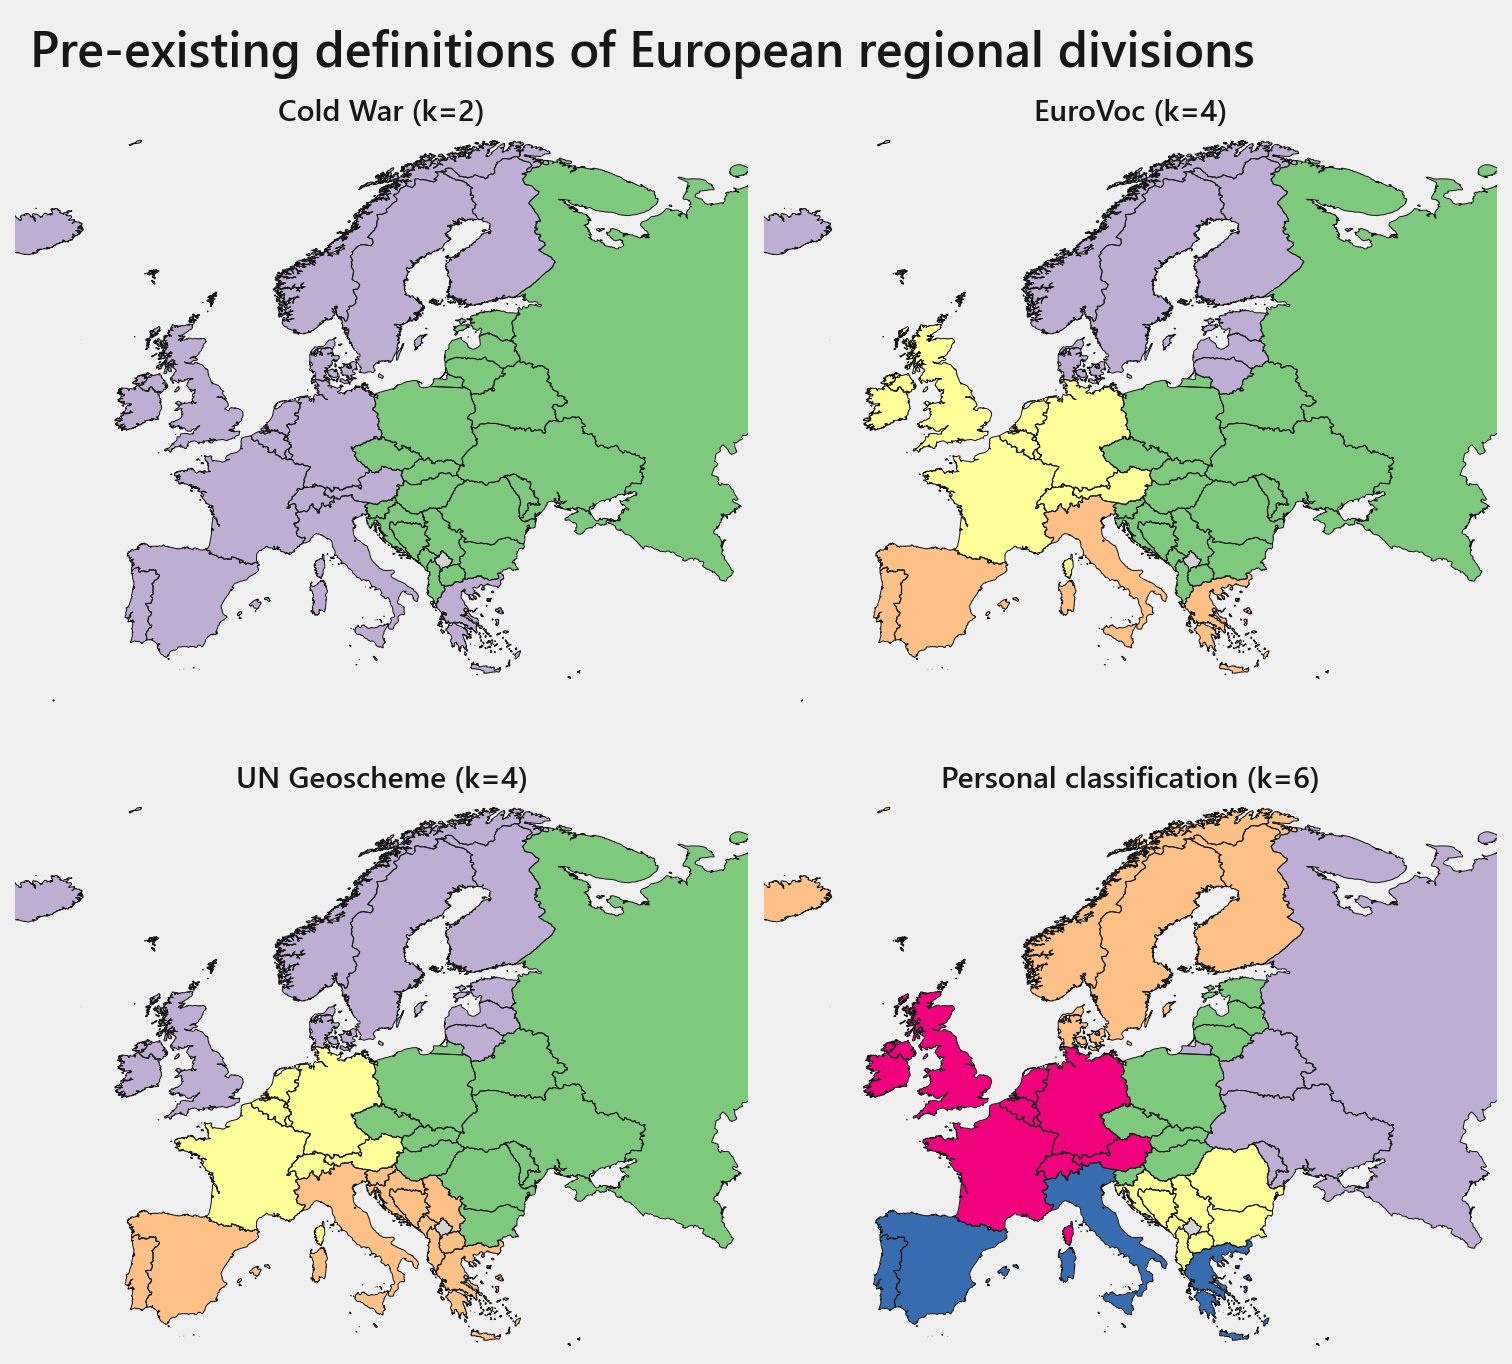
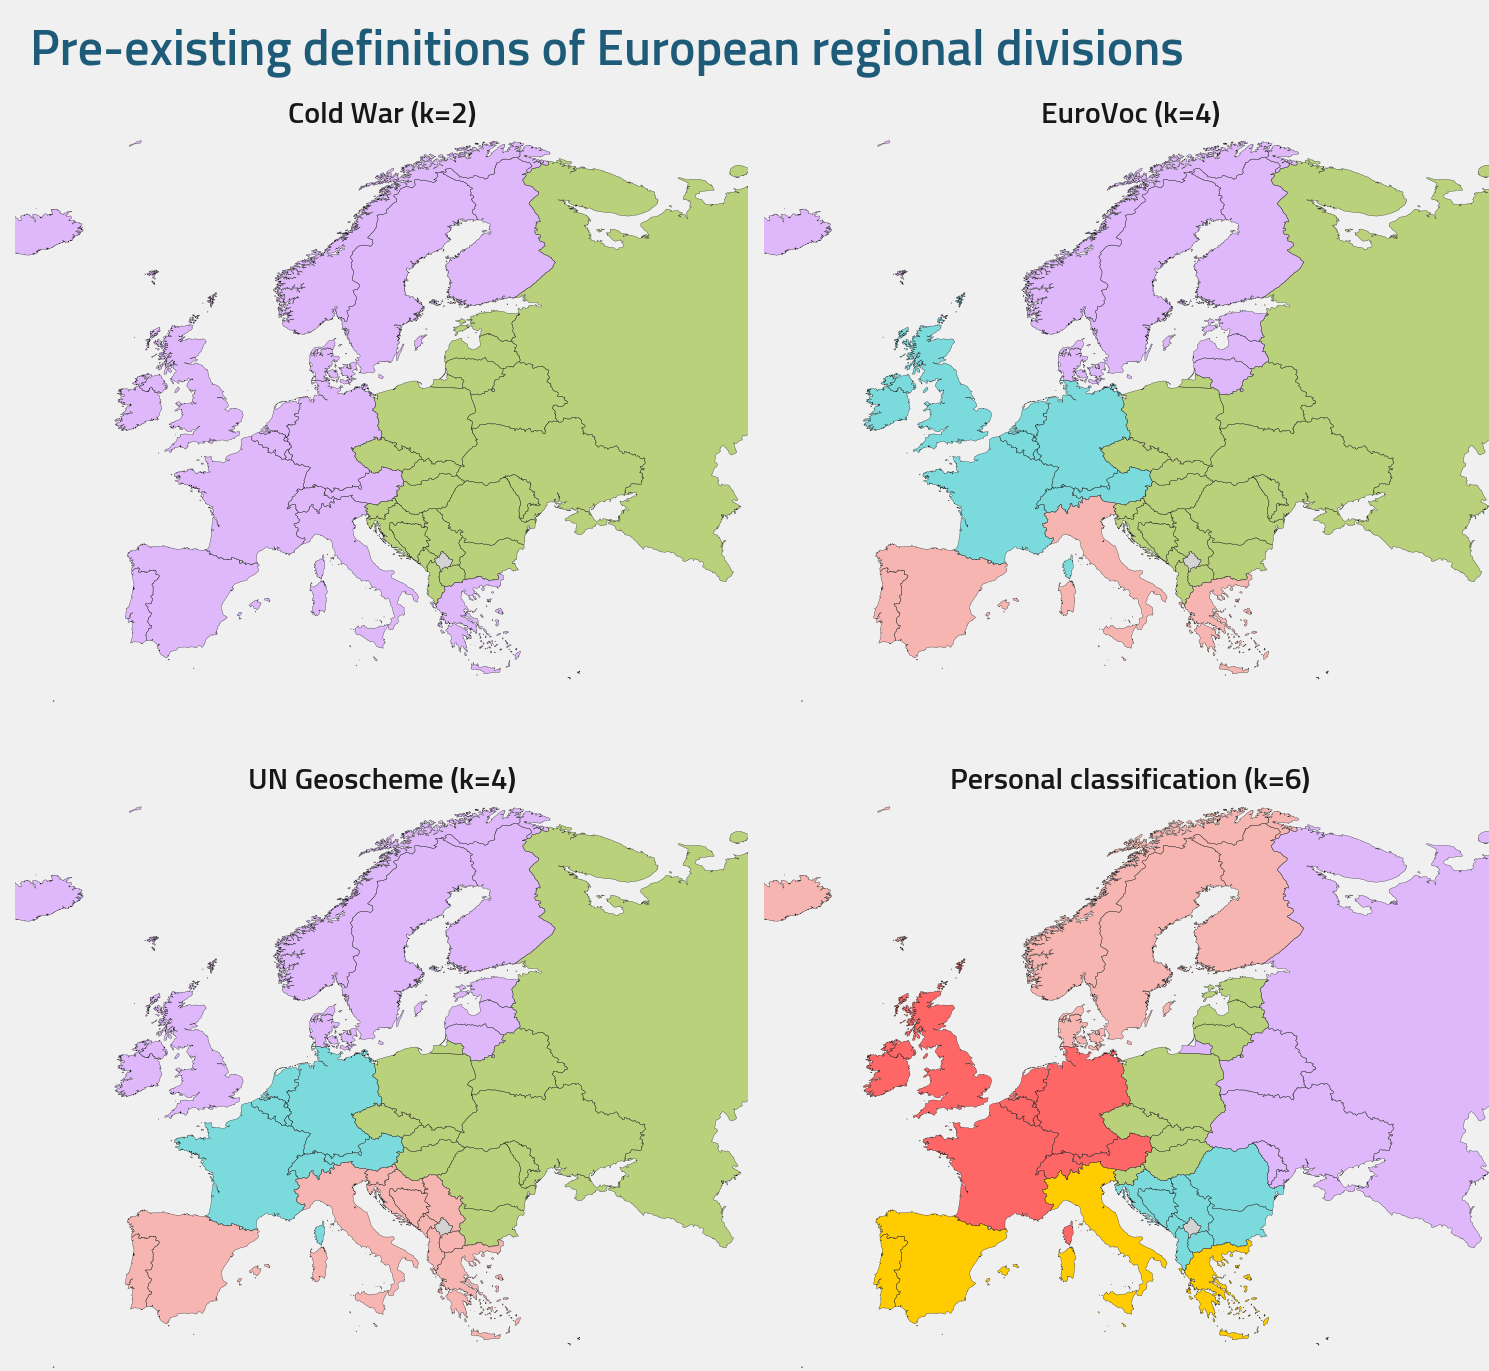
update images and clustering

diff --git a/code/mapping.py b/code/mapping.py
@@ -14,6 +14,12 @@ import geopandas as gpd
 import matplotlib.pyplot as plt
 import matplotlib.colors as mcolors
 
+from matplotlib import font_manager as fm, rcParams
+
+# Ensure "Titillium Web" font is available
+font_path = 'C:/WINDOWS/FONTS/TITILLIUMWEB-REGULAR.TTF'  # Update this path to the actual font path
+fm.fontManager.addfont(font_path)
+plt.rcParams['font.family'] = 'Titillium Web'
 
 
 ## Import cluster dataset
@@ -41,11 +47,11 @@ europe_clusters = europe.merge(df, how='left', left_on='NAME_LONG', right_on='Sh
 # Define the number of categories for each map
 num_categories_list = [2, 4, 6]
 
-# Define the base colormap
-base_cmap = plt.get_cmap('Accent')
+# Define the custom colors
+custom_colors = ['#b8d17a', '#deb8fa', '#f6b5b1', '#7adadc', '#E2F426', '#F64050']
 
 # Create custom colormaps for each number of categories
-custom_cmaps = [mcolors.ListedColormap(base_cmap.colors[:num_categories]) for num_categories in num_categories_list]
+custom_cmaps = [mcolors.ListedColormap(custom_colors[:num_categories]) for num_categories in num_categories_list]
 
 # Create subplots
 fig, axes = plt.subplots(1, 3, figsize=(60, 20))
@@ -68,21 +74,22 @@ for ax, column, title, cmap in zip(axes, columns, titles, custom_cmaps):
 
 # Customize the overall plot
 plt.suptitle('Clustering European countries along human development and inequality',
-             fontsize=80, fontweight='semibold', x=0.02, ha='left', color = '#171717', y= 0.99)
+             fontsize=80, fontweight='semibold', x=0.02, ha='left', color = '#1D5B79', y= 0.99)
 plt.tight_layout()
 plt.subplots_adjust(top=0.95)
 plt.savefig('viz/cluster_maps.png')  # Save the figure
 plt.show()
 
-## Maps of pre-existing definitions
+
+### Maps of pre-existing definitions
 # Define the number of categories for each map
 num_categories_list = [2, 4, 4, 6]
 
-# Define the base colormap
-base_cmap = plt.get_cmap('Accent')
+# Define the custom colors
+custom_colors = ['#b8d17a', '#deb8fa', '#f6b5b1', '#7adadc', '#ffcc00', '#ff6666']
 
 # Create custom colormaps for each number of categories
-custom_cmaps = [mcolors.ListedColormap(base_cmap.colors[:num_categories]) for num_categories in num_categories_list]
+custom_cmaps = [mcolors.ListedColormap(custom_colors[:num_categories]) for num_categories in num_categories_list]
 
 # Create subplots
 fig, axes = plt.subplots(2, 2, figsize=(21, 20))
@@ -91,23 +98,23 @@ axes = axes.flatten()
 plt.style.use("fivethirtyeight")
 
 # Plot each cluster column in its respective subplot
-columns = ['Cold_War','EuroVoc','UN_Geoscheme','Personal']
+columns = ['Cold_War', 'EuroVoc', 'UN_Geoscheme', 'Personal']
 titles = ['Cold War (k=2)', 'EuroVoc (k=4)', 'UN Geoscheme (k=4)', 'Personal classification (k=6)']
 
 for ax, column, title, cmap in zip(axes, columns, titles, custom_cmaps):
-    europe_clusters.boundary.plot(ax=ax, linewidth=1, edgecolor='#171717')
+    europe_clusters.boundary.plot(ax=ax, linewidth=.3, edgecolor='#171717')
     europe_clusters.plot(column=column, ax=ax, legend=False, categorical=True, cmap=cmap,
                          missing_kwds={"color": "lightgrey"})
     bbox = (-20, 33, 50, 72)  # Limit the bounding box of the plot to Europe (minx, miny, maxx, maxy)
     ax.set_xlim(bbox[0], bbox[2])
     ax.set_ylim(bbox[1], bbox[3])
-    ax.set_title(title, fontsize=30, fontweight='semibold', color = '#171717')
+    ax.set_title(title, fontsize=30, fontweight='semibold', color='#171717')
     ax.axis('off')
     ax.grid(False)
 
 # Customize the overall plot
 plt.suptitle('Pre-existing definitions of European regional divisions',
-             fontsize=50, fontweight='semibold', x=0.02, ha='left', color = '#171717', y = 0.98)
+             fontsize=50, fontweight='semibold', x=0.02, ha='left', color='#1D5B79', y=0.98)
 plt.tight_layout()
 plt.subplots_adjust(top=0.95)
 plt.savefig('viz/division_maps.png')  # Save the figure

diff --git a/code/main.py b/code/main.py
@@ -50,7 +50,10 @@ np.random.seed(35)
 df['JitteredY'] = df['Inequality-loss'] + np.random.uniform(-.2, .2, size=len(df))
 
 ## Set the font family globally
-plt.rcParams['font.family'] = 'Segoe UI'  # Examples of font families: 'serif', 'sans-serif', 'monospace'
+from matplotlib import font_manager as fm, rcParams
+font_path = 'C:/WINDOWS/FONTS/TITILLIUMWEB-REGULAR.TTF'  # Update this path to the actual font path
+fm.fontManager.addfont(font_path)
+plt.rcParams['font.family'] = 'Titillium Web'
 
 
 ## Function to plot European countries by the two variables, coloured by specified cluster set
@@ -87,7 +90,7 @@ def cluster_plot(df, cluster_set):
         alpha=0.6,
         legend='full'
     )
-    plt.title(title, fontsize = 70, pad = 50, loc = 'left', fontweight = 'semibold', color = '#171717')
+    plt.title(title, fontsize = 70, pad = 50, loc = 'left', fontweight = 'semibold', color = '#1D5B79')
     plt.xlabel('HDI', fontsize = 60, labelpad = 30, fontweight = 'semibold', color = '#171717')
     plt.ylabel('IHDI Overall loss (%)', fontsize = 60, labelpad = 30, fontweight = 'semibold', color = '#171717')
     
@@ -193,7 +196,7 @@ scatter = sns.lineplot(
 
 #plt.plot(range(1,11), sse, linewidth = 5)
 plt.xticks(range(1,11))
-plt.title('Elbow plot for K-means clustering of European countries', fontsize = 70, pad = 50, fontweight = 'semibold', loc = 'left', color = '#171717')
+plt.title('Elbow plot for k-means clustering of European countries', fontsize = 90, pad = 100, fontweight = 'semibold', loc = 'left', color = '#1D5B79')
 plt.xlabel('Number of clusters', fontsize = 60, labelpad = 30, fontweight = 'semibold', color = '#171717')
 plt.ylabel('SSE', fontsize = 60, labelpad = 30, fontweight = 'semibold', color = '#171717')
 plt.axvline(x = kl.elbow, color = "orange", linestyle = "dotted", linewidth = 10) # adding line where elbow point creases
@@ -209,7 +212,7 @@ scatter = sns.lineplot(
         x=range(2,11), y=sl_scores, 
         linewidth=10)
 plt.xticks(range(2,11))
-plt.title('Silhouette scores for K-means clustering of European countries', color = '#171717', fontsize = 70, pad = 50, fontweight = 'semibold', loc = 'left')
+plt.title('Silhouette scores for k-means clustering of European countries', color = '#1D5B79', fontsize = 90, pad = 100, fontweight = 'semibold', loc = 'left')
 plt.xlabel('Number of clusters', fontsize = 60, labelpad = 30, fontweight = 'semibold', color = '#171717')
 plt.ylabel('Silhouette Coefficient', fontsize = 60, labelpad = 30, fontweight = 'semibold', color = '#171717')
 plt.axvline(x = sl_max, color = "orange", linestyle = "dotted", linewidth = 10) # adding line where elbow point creases

diff --git a/README.md b/README.md
@@ -16,7 +16,7 @@ The Atkinson index is distinguished from other inequality metrics, like the Gini
 ### Determining *k*
 Given that the amount of input variables we use for the clustering (human development and inequality) is two, the choice of four clusters seems the most sensible *a priori*. This way, clusters can be easily interpreted as belonging to one of four combinations of the two variables: "less developed and less equal", "less developed and more equal", "more developed but less equal", "more developed and more equal".
 
-We can also qualitatively arrive at the best *k* for our input data. By computing both the sum of the squared errors (SSE) and sillhouette coefficients over each *k*, an optimum of four clusters indeed strikes the best balance between simplicity and capturing variation:
+We can also qualitatively arrive at the best *k* for our input data. By computing both the sum of the squared errors (SSE) and silhouette coefficients over each *k*, an optimum of four clusters indeed strikes the best balance between simplicity and capturing variation:
 
 ![Image: Elbow plot and Silhouette score plot](viz/determining%20k.png)
 
@@ -27,9 +27,9 @@ Although it's clear that *k* = 4 is the best fit for our input data, any *k* fro
 
 ![Image: Maps of European countries coloured by my k-means clustering results](viz/cluster_maps.png)
 
-Observing the map of the optimal configuration of 4 clusters, we can see that the countries within each cluster generally share borders and form contiguous blocs, with the exception of the purple cluster which is split between Southern Europe and the Baltic region. Overall, an interpretable pattern emerges with Western Europe and Northern Europe (in addition to Greece) characterised as countries with high human development, which in turn are internally split with more inequality in the Mediterannean and southern coast of the Baltic Sea. Conversely, Eastern Europe is characterised with lower human development, with much of the Balkans exhibiting higher inequality than the countries to the north and northeast of them.
+Observing the map of the optimal configuration of 4 clusters, we can see that the countries within each cluster generally share borders and form contiguous blocs, with the exception of the purple cluster which is split between Southern Europe and the Baltic region. Overall, an interpretable pattern emerges with Western Europe and Northern Europe (in addition to Greece) characterised as countries with high human development, which in turn are internally split with more inequality in the Mediterranean and southern coast of the Baltic Sea. Conversely, Eastern Europe is characterised with lower human development, with much of the Balkans exhibiting higher inequality than the countries to the north and northeast of them.
 
-![Image: Scatter plot of European countries by human development and inequality, coloured by k-means clustering results](viz/plot%20k4.png)
+![Image: Scatter plot of European countries by human development and inequality, coloured by k-means clustering results](viz/k4%20plot.png)
 
 
 
@@ -43,14 +43,14 @@ In comparison, let's introduce four ways of categorising the nations of Europe w
 ![Image: Maps of European countries coloured by pre-existing regional divisions of Europe](viz/division_maps.png)
 
 
-We can use quantitiative measures to evaluate how closely our *k*-means clustering results align with these pre-existing regional divisions of Europe. One such measure is the **Adjusted Rand Index (ARI)**. It's a measure of the similarity between the clustering sets and the pre-existing classes we are comparing them to: a value of 1 indicates perfect agreement, whereas a value of -1 indicates perfect disagreement. A second score we can use is the **V-measure**, which looks at both the homogeneity and the completeness of each cluster set, evaluating how well each cluster contains only members of one class - and the opposite.
+We can use quantitative measures to evaluate how closely our *k*-means clustering results align with these pre-existing regional divisions of Europe. One such measure is the **Adjusted Rand Index (ARI)**. It's a measure of the similarity between the clustering sets and the pre-existing classes we are comparing them to: a value of 1 indicates perfect agreement, whereas a value of -1 indicates perfect disagreement. A second score we can use is the **V-measure**, which looks at both the homogeneity and the completeness of each cluster set, evaluating how well each cluster contains only members of one class - and the opposite.
 
 | Definition   | *k*-means cluster set   |   ARI |   V-measure |
 |:-------------|:--------------|------:|------------:|
 | Cold War     | *k* = 2            |  0.17 |        0.14 |
 | UN Geoscheme | *k* = 4            |  0.18 |       0.31 |
 | EuroVoc      | *k* = 4            |  0.16 |       0.39 |
-| Personal     | *k* = 6            |  0.35 |        0.6  |
+| Personal     | *k* = 6            |  0.34 |        0.6  |
 
 
 
@@ -58,7 +58,7 @@ We can see from this table that, quantitatively speaking, our clusters only map 
 
 Interestingly, with an ARI of 0.17 and a V-measure of 0.14, the Cold War definition is the most incongruous with our socioeconomic-based clustering approach. This suggests that a simple two-way division of European countries can't be served well by relying on 20th century political history -- former Eastern Bloc countries such as Estonia, Slovenia, Czechia, Slovakia, Hungary and Croatia share more in common with Western European countries in terms of their socioeconomic development and the way this development is distributed.
 
-The two four-way definitions, EuroVoc and the UN's Geoscheme, are geographically intuitive, showing more geographic contiguity than our *k* = 4 clustering results. But the weak agreement with our results also indicates that they group together countries with drastically different socioeconomic outcomes (such as the Balkan countires like Serbia, Bosnia and Herzogivna and Albania, with Spain, Portugal and Italy).
+The two four-way definitions, EuroVoc and the UN's Geoscheme, are geographically intuitive, showing more geographic contiguity than our *k* = 4 clustering results. But the weak agreement with our results also indicates that they group together countries with drastically different socioeconomic outcomes (such as the Balkan countries like Serbia, Bosnia and Albania, with Spain, Portugal and Italy).
 
 The two four-way definitions, EuroVoc and the UN's Geoscheme, also show only a weak agreement with our optimal *k* = 4 clusters. Although they themselves are geographically intuitive, the results indicate that these definitions group together countries with drastically different socioeconomic outcomes. For example, the UN Geoscheme groups much poorer Balkan countries like Serbia, Bosnia and Albania with Spain, Portugal and Italy into a common Southern Europe category. On the other hand, EuroVoc partially replicates the Cold War understanding of Eastern Europe, pooling former Eastern Bloc countries like Czechia and Albania together, despite the gulf in both human development and inequality between them.
 
@@ -74,6 +74,8 @@ Emerging from this, the second key finding is that **there is still a surprising
 ### /code/
 - **main.py**  - Code for *k*-means clustering and visualisations 
 - **mapping.py** - Mapping of *k*-means clustering results
+- **visualisations.R** - Scatter plot of countries for *k*=4
+
 ### /data/
 - **IHDI dataset 2022 Europe.csv** - Input dataset containing European countries according to pre-existing regional definitions
 - **european clusters.csv** - Output dataset containing results of *k*-means clustering
